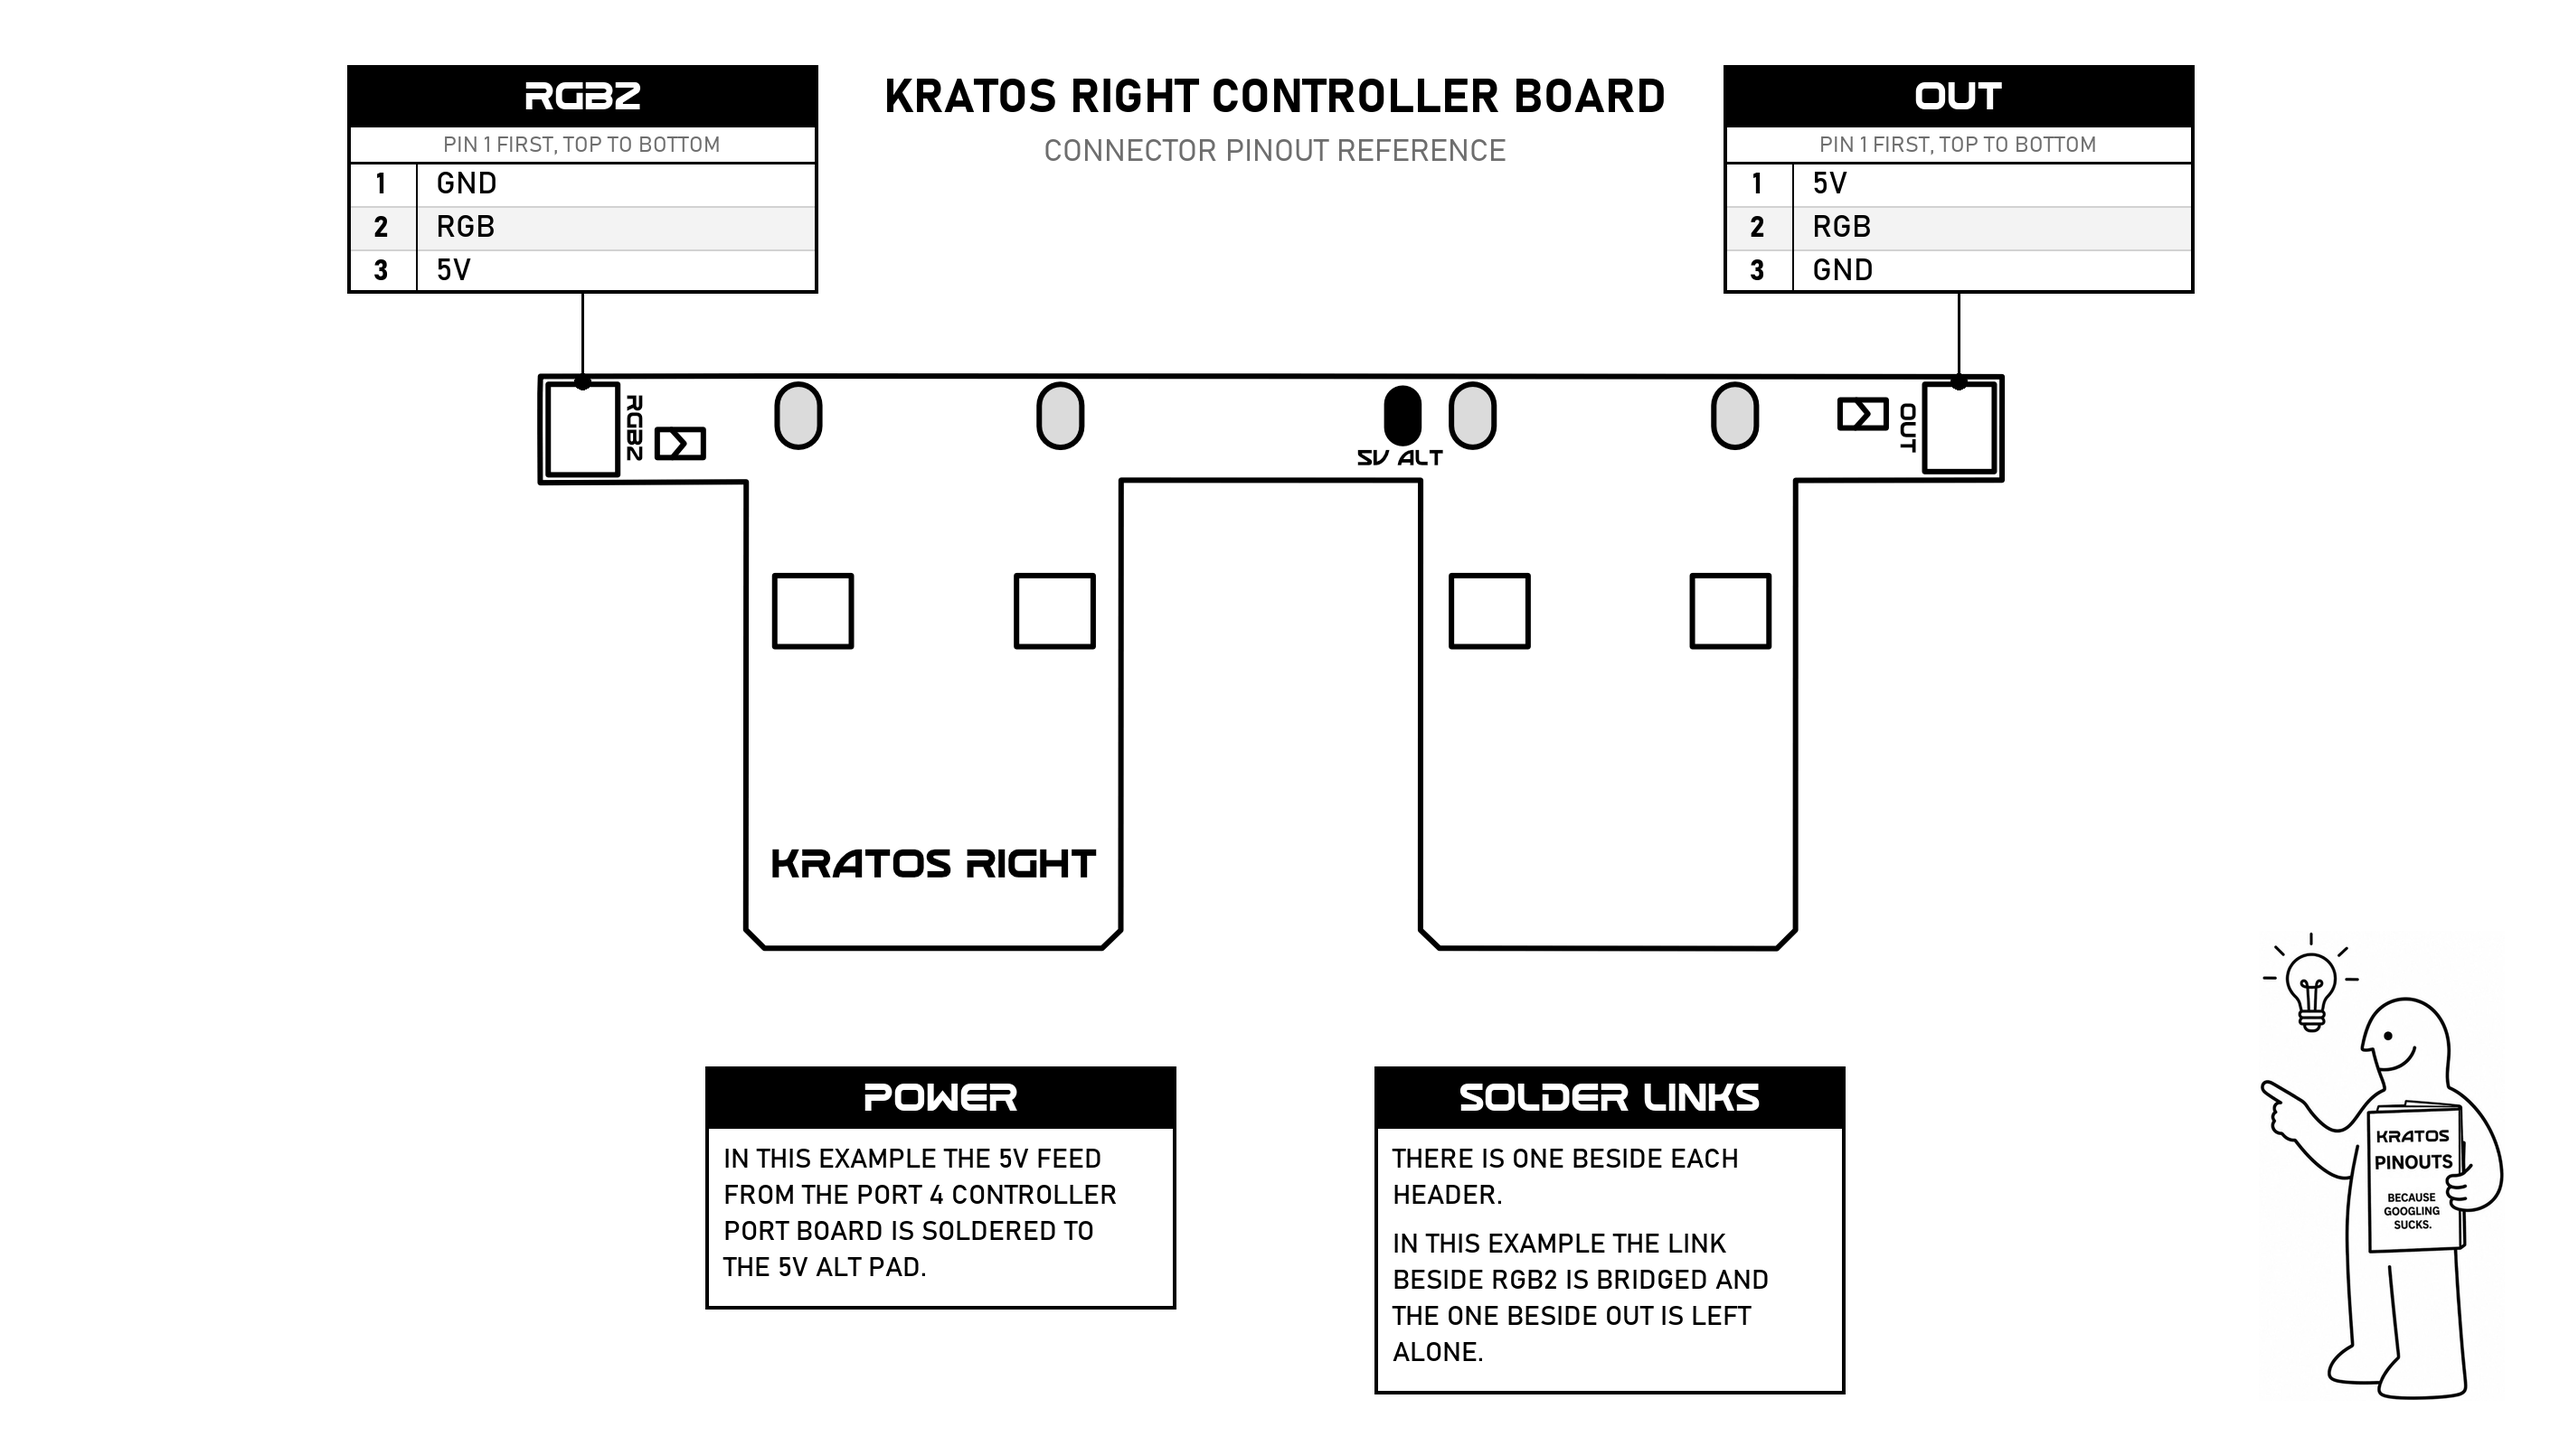
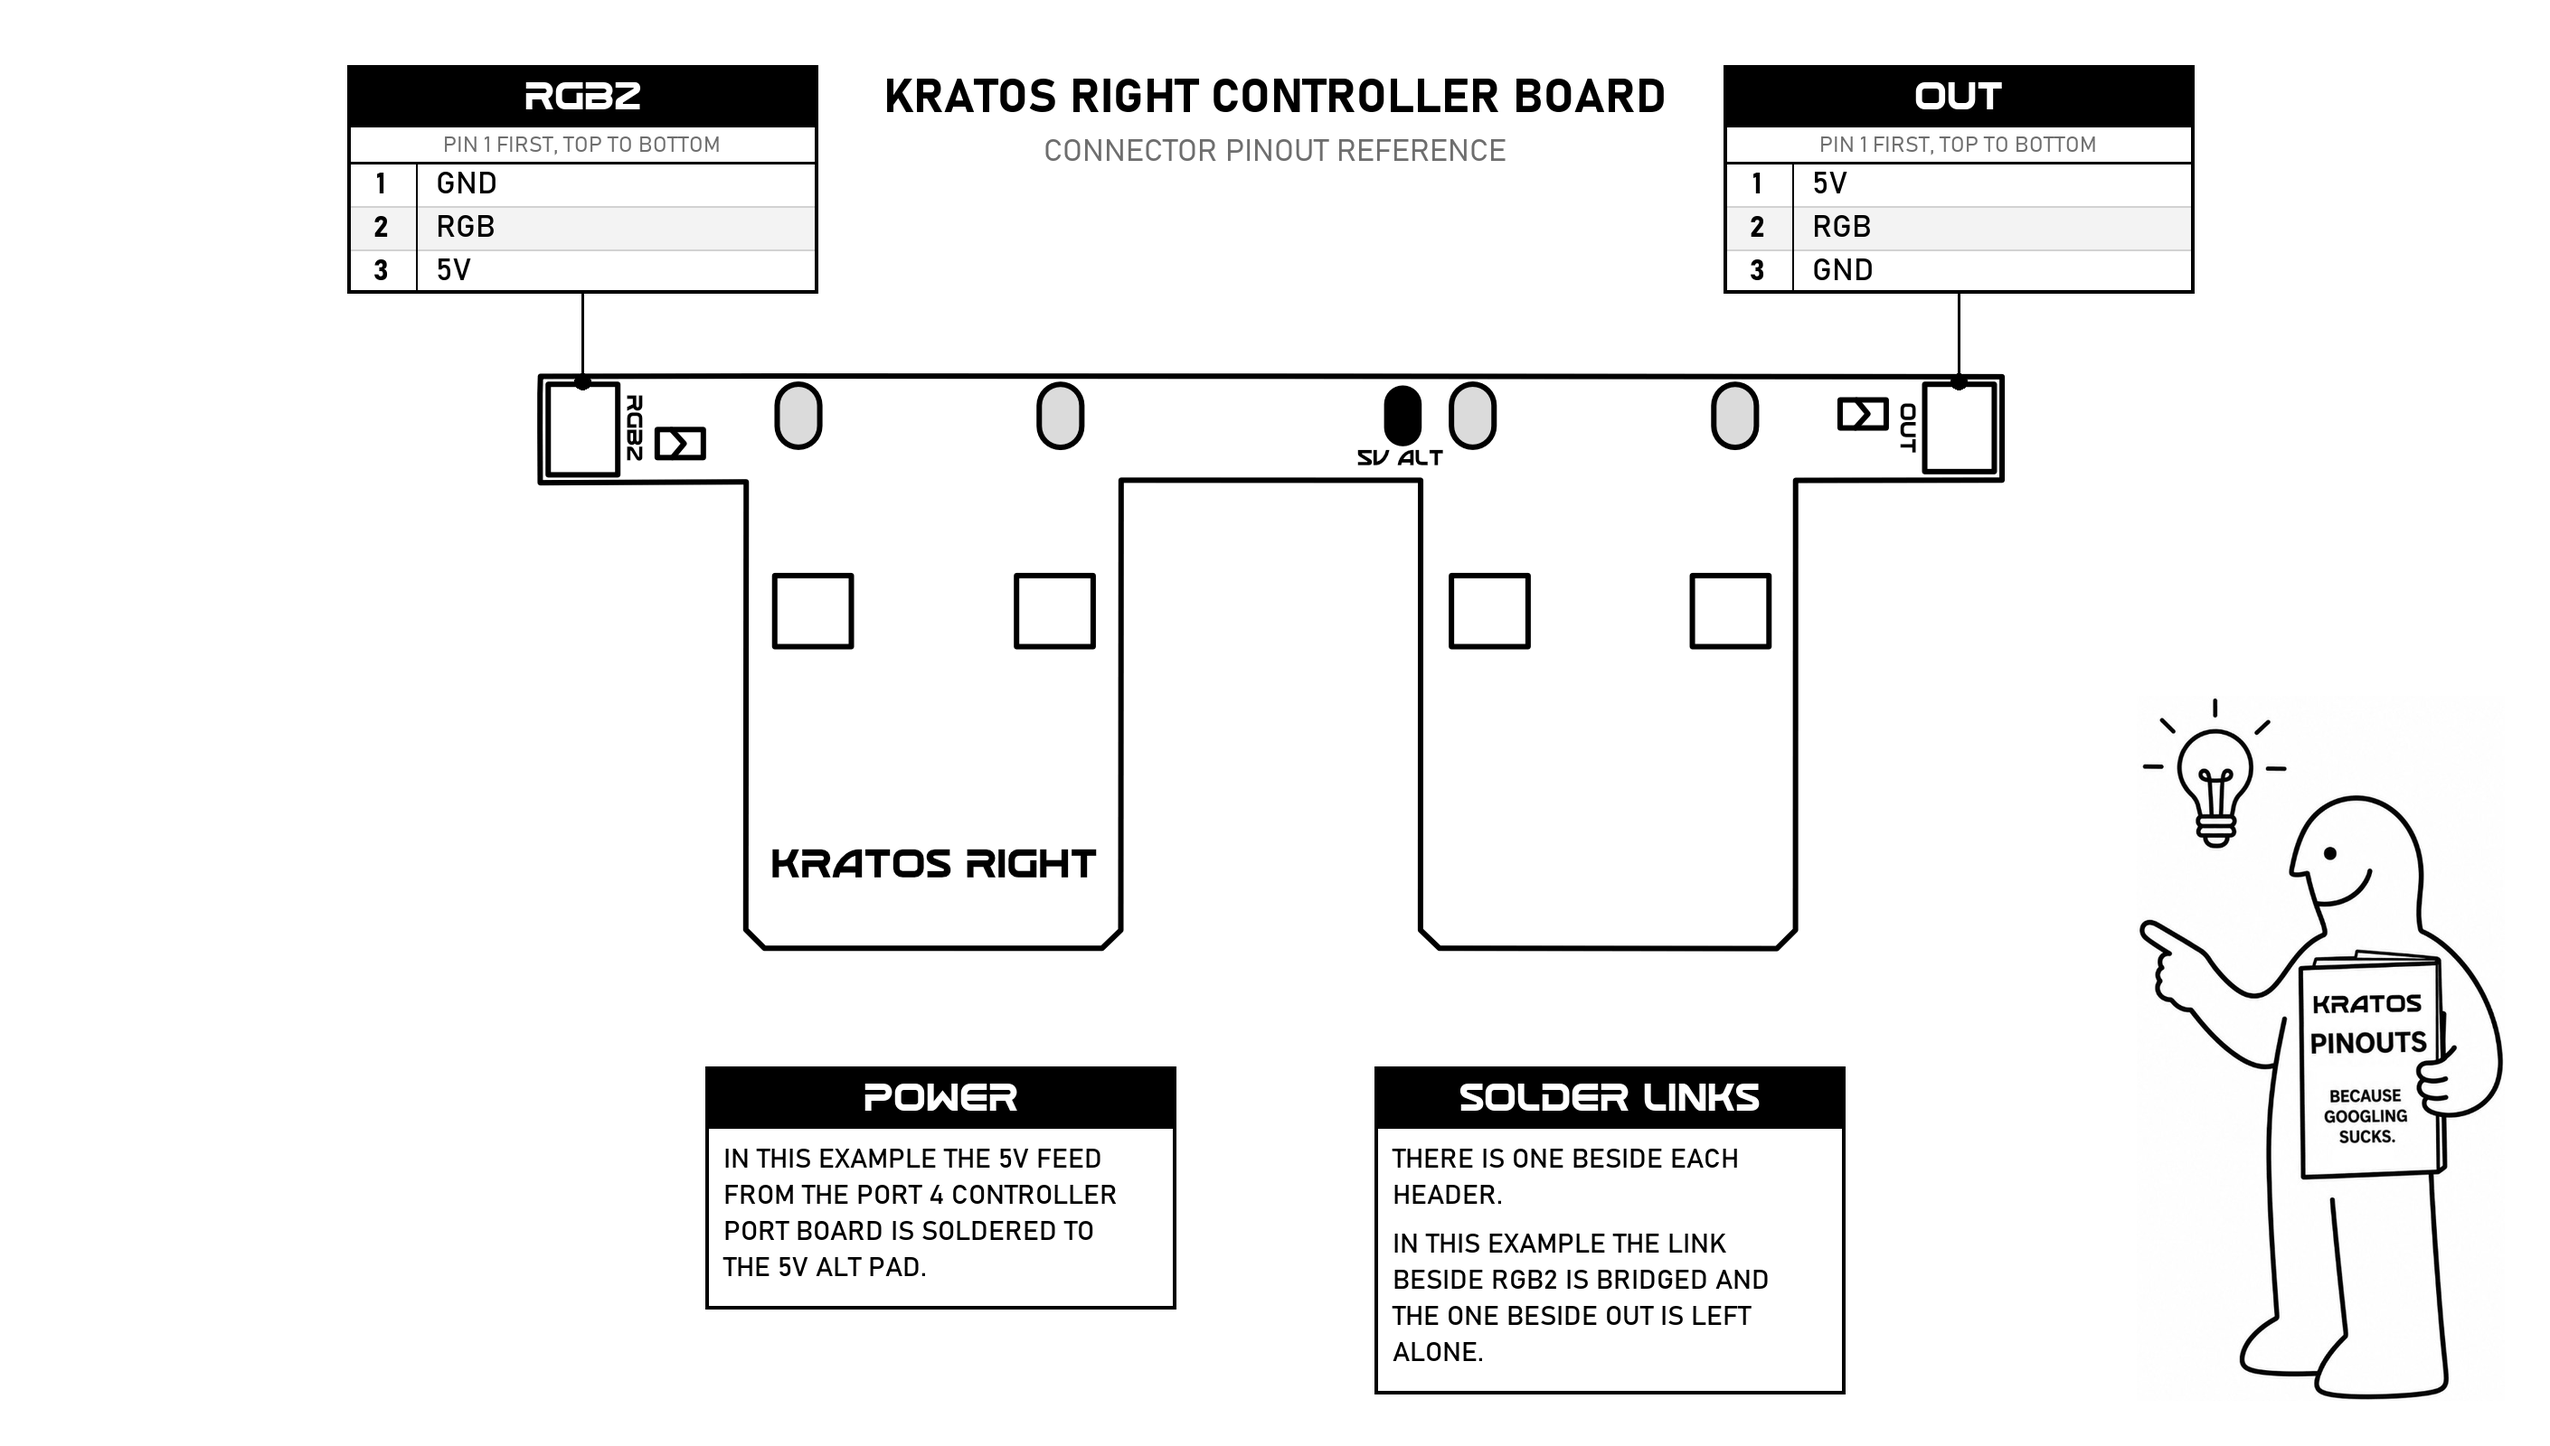
update

Changed region(s): [[0.8426, 0.5938, 0.9986, 0.9688], [0.8426, 0.5, 0.9362, 0.5938]]

diff --git a/tools/generate-pinout.py b/tools/generate-pinout.py
@@ -134,7 +134,7 @@ CORNER_PINS_LEFT = ("TOP TO BOTTOM", ["GND", "RGB", "5V"])
 CORNER_PINS_RIGHT = ("TOP TO BOTTOM", ["5V", "RGB", "GND"])
 
 LEFT_MASCOT = (IMAGES / "helper-toilet.png", 440)
-RIGHT_MASCOT = (IMAGES / "helper-book.png", 520)
+RIGHT_MASCOT = (IMAGES / "helper-book.png", 780)
 
 
 def controller_board(side, input_header, mascot, supply_note, link_note):
